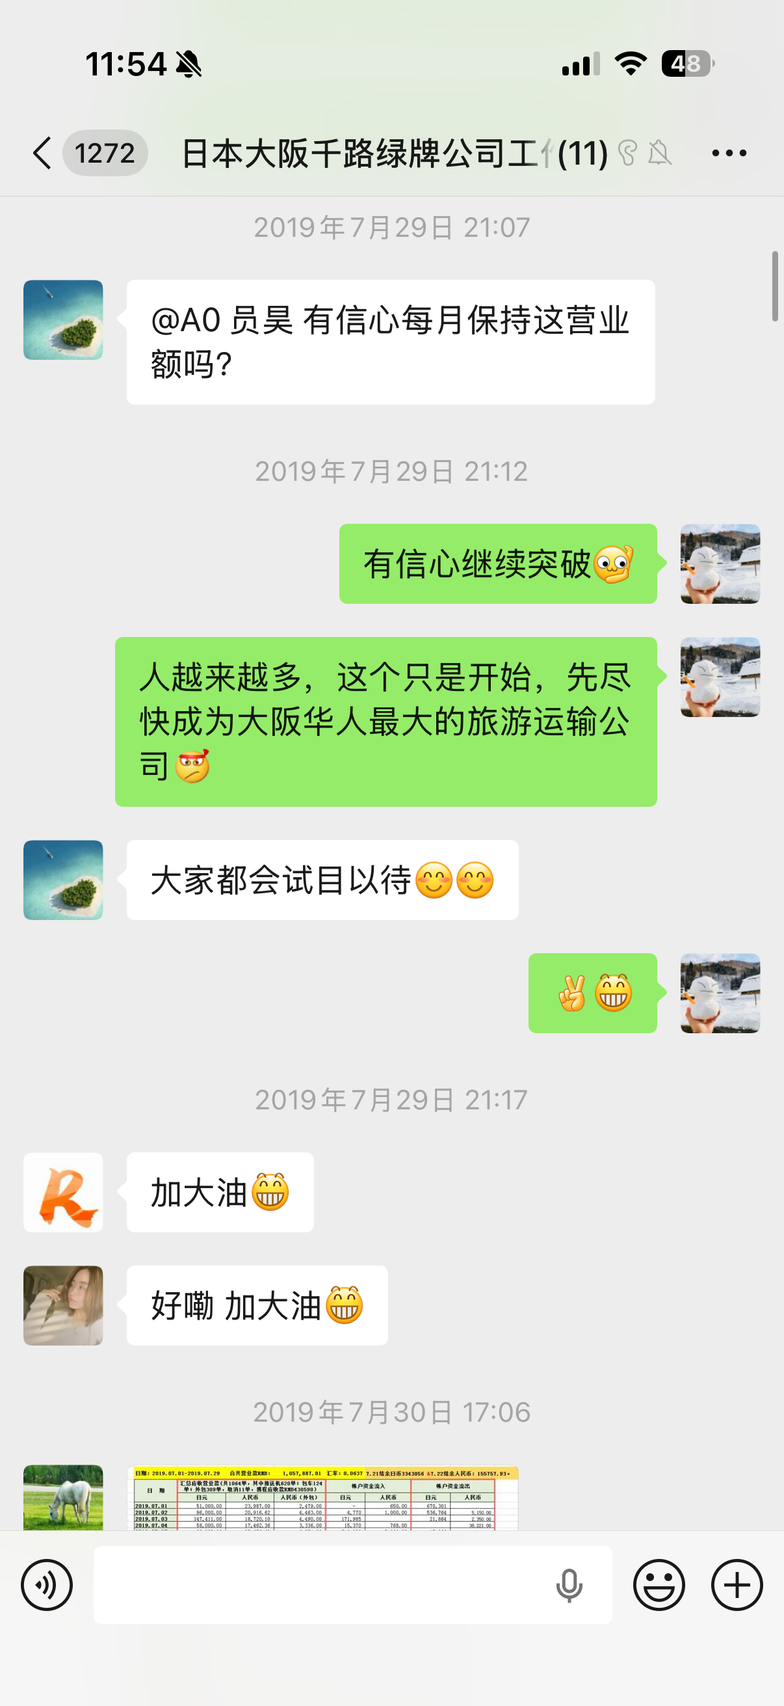
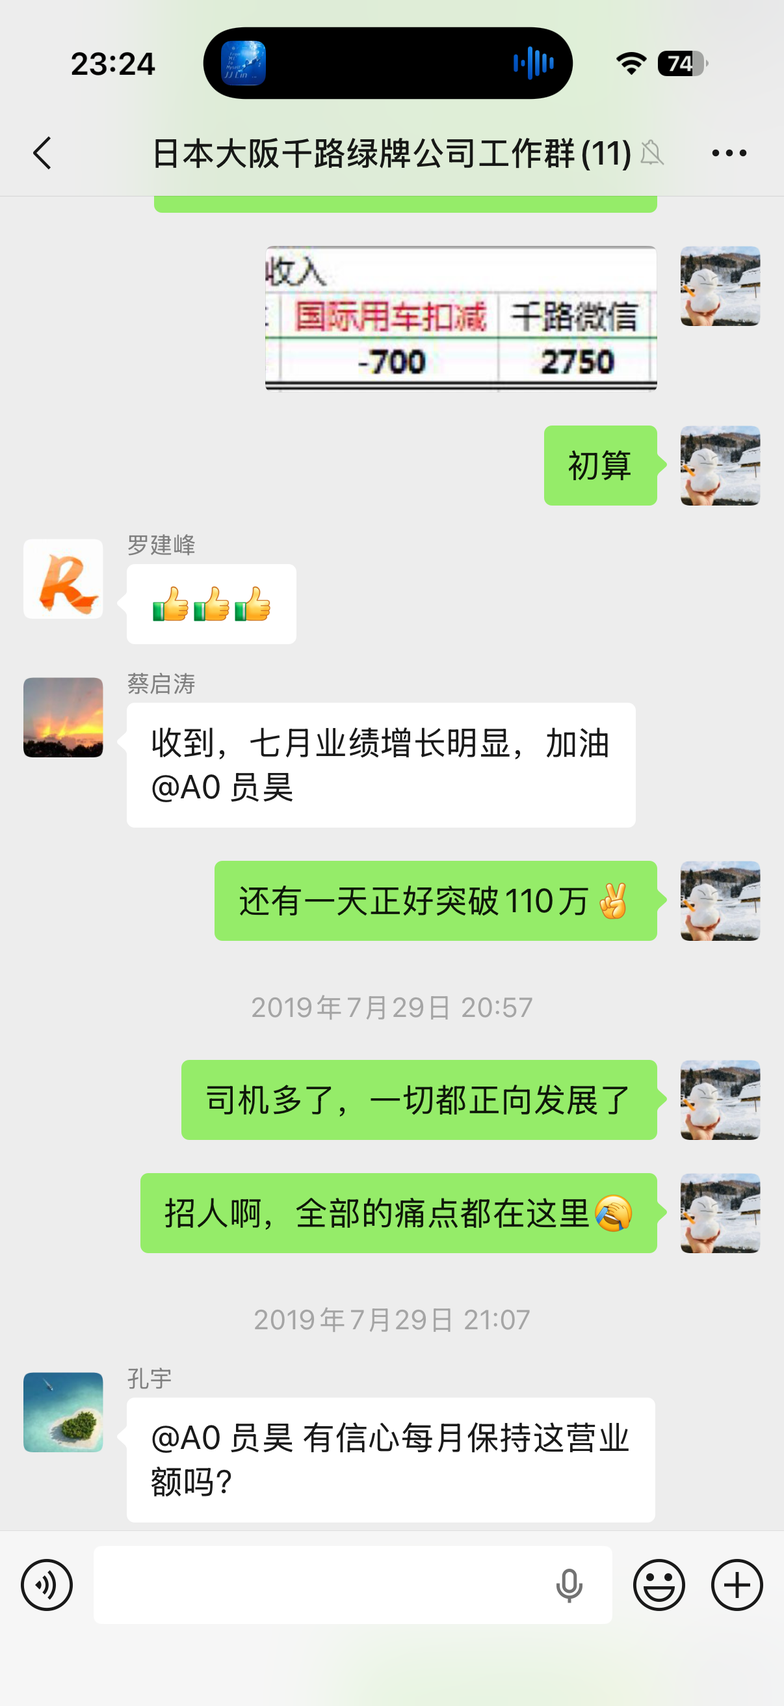
修正案件概述7处问题：年份、人名、截图内容、股东会细节

diff --git a/index.html b/index.html
@@ -301,8 +301,8 @@ body.locked>*:not(#password-gate){display:none!important}
 
       <p style="margin-bottom:6px;"><strong>犯罪闭环（30秒理解）：</strong></p>
       <table style="width:100%; border-collapse:collapse; margin-bottom:14px;">
-        <tr style="background:#ffcdd2;"><td style="padding:8px; border:1px solid #ddd; width:80px; font-weight:700;">第一步</td><td style="padding:8px; border:1px solid #ddd;"><strong>切断信息渠道</strong> &mdash; 凃云峰转走全部财务资料（11.9）&rarr; 通知供应商只能找凃云峰（11.19）&rarr; 邓桂燕停止汇报（11.28）&rarr; 股东会变更所有密码（12.2）&rarr; 免除员昊董事席位（12.12）&mdash;&mdash; 员昊在客观上已<strong>完全不可能</strong>获取任何公司信息</td></tr>
-        <tr style="background:#ffcdd2;"><td style="padding:8px; border:1px solid #ddd; font-weight:700;">第二步</td><td style="padding:8px; border:1px solid #ddd;"><strong>捏造事由诬告</strong> &mdash; 变更密码<strong>次日</strong>（12.3），罗建峰发律师函要求员昊"提供银行流水"。员昊已无法提供。随后以捏造的"未汇报"为由仲裁追诉</td></tr>
+        <tr style="background:#ffcdd2;"><td style="padding:8px; border:1px solid #ddd; width:80px; font-weight:700;">第一步</td><td style="padding:8px; border:1px solid #ddd;"><strong>切断信息渠道</strong> &mdash; 凃云峰转走全部财务资料（2019.11.9）&rarr; 通知供应商只能找凃云峰（2019.11.19）&rarr; 邓桂燕停止汇报（2019.11.28）&rarr; 股东会变更所有密码（2019.12.2）&rarr; 免除员昊董事席位（2019.12.12）&mdash;&mdash; 员昊在客观上已<strong>完全不可能</strong>获取任何公司信息</td></tr>
+        <tr style="background:#ffcdd2;"><td style="padding:8px; border:1px solid #ddd; font-weight:700;">第二步</td><td style="padding:8px; border:1px solid #ddd;"><strong>捏造事由诬告</strong> &mdash; 变更密码<strong>次日</strong>（2019.12.3），罗建峰发律师函要求员昊"提供银行流水"。员昊已无法提供。随后以捏造的"未汇报"为由仲裁追诉</td></tr>
         <tr style="background:#ffcdd2;"><td style="padding:8px; border:1px solid #ddd; font-weight:700;">第三步</td><td style="padding:8px; border:1px solid #ddd;"><strong>给自己免责</strong> &mdash; 蔡启泳在仲裁中<strong>放弃追诉凃云峰（法定代表人、合同约定的义务执行人）、吕伟麟、蔡启涛</strong>，仅追诉员昊等三名小股东。切断信息渠道的人全部被免责，受害人被追诉</td></tr>
       </table>
 
@@ -310,9 +310,9 @@ body.locked>*:not(#password-gate){display:none!important}
       <table style="width:100%; border-collapse:collapse; margin-bottom:14px;">
         <tr style="background:#e8eaf6;"><th style="padding:6px 8px; border:1px solid #ddd; width:30px;">#</th><th style="padding:6px 8px; border:1px solid #ddd;">证据</th><th style="padding:6px 8px; border:1px solid #ddd;">证明了什么</th></tr>
         <tr style="background:#fff3e0;"><td style="padding:6px 8px; border:1px solid #ddd; text-align:center; font-weight:700;">1</td><td style="padding:6px 8px; border:1px solid #ddd;"><strong style="color:#b71c1c;">2019年12月14日语音录音（名古屋，除凃云峰外全体股东在场）</strong>（<span class="evidence-tag">2019年12月14日谈话语音录音</span>）<br>蔡启涛、吕伟麟<strong>代替罗建峰和凃云峰</strong>向员昊提出326万元买断条件</td><td style="padding:6px 8px; border:1px solid #ddd;"><strong>一条录音同时证明四项关键事实：</strong><br>&bull; <strong>四人共谋</strong>：蔡/吕代替罗/凃谈判，四人构成统一阵营<br>&bull; <strong>非破产</strong>：应收款120多万+16台车约100万=220万资产<br>&bull; <strong>犯罪动机</strong>：买断被拒后转向虚假诉讼（"买不成就告"）<br>&bull; <strong>审计操控</strong>：员昊要求换审计师被拒，蔡启涛承诺6年未兑现</td></tr>
-        <tr><td style="padding:6px 8px; border:1px solid #ddd; text-align:center;">2</td><td style="padding:6px 8px; border:1px solid #ddd;"><strong>微信群记录</strong>（罗建峰在财务群2019年8月回复"收到，七月业绩增长明显"）</td><td style="padding:6px 8px; border:1px solid #ddd;">罗建峰在仲裁中声称"2019年4月后无法获知财务"——<strong>其本人微信发言直接推翻此陈述</strong></td></tr>
+        <tr><td style="padding:6px 8px; border:1px solid #ddd; text-align:center;">2</td><td style="padding:6px 8px; border:1px solid #ddd;"><strong>微信群记录</strong>（2019年7月29日，蔡启涛在群中回复"收到，七月业绩增长明显"，罗建峰以表情回应，孔宇主动询问营业额）</td><td style="padding:6px 8px; border:1px solid #ddd;">罗建峰在仲裁中声称"2019年4月后无法获知财务"——<strong>群聊记录证明被告发人一方全程参与财务监管，直接推翻此陈述</strong></td></tr>
         <tr><td style="padding:6px 8px; border:1px solid #ddd; text-align:center;">3</td><td style="padding:6px 8px; border:1px solid #ddd;"><strong>审计报告隐匿3年</strong>（2020年出具，2023年才在撤裁听证会提交）</td><td style="padding:6px 8px; border:1px solid #ddd;">被告发人已持有完整财务数据，却在仲裁中以"不了解财务"虚假陈述——<strong>主观故意的直接证据</strong></td></tr>
-        <tr><td style="padding:6px 8px; border:1px solid #ddd; text-align:center;">4</td><td style="padding:6px 8px; border:1px solid #ddd;"><strong>12月2日变更密码 &rarr; 12月3日律师函</strong>（24小时精确衔接）</td><td style="padding:6px 8px; border:1px solid #ddd;">先切断信息渠道，次日要求提供信息——<strong>时间配合排除偶然</strong></td></tr>
+        <tr><td style="padding:6px 8px; border:1px solid #ddd; text-align:center;">4</td><td style="padding:6px 8px; border:1px solid #ddd;"><strong>2019年12月2日变更密码 &rarr; 2019年12月3日律师函</strong>（24小时精确衔接）</td><td style="padding:6px 8px; border:1px solid #ddd;">先切断信息渠道，次日要求提供信息——<strong>时间配合排除偶然</strong></td></tr>
         <tr><td style="padding:6px 8px; border:1px solid #ddd; text-align:center;">5</td><td style="padding:6px 8px; border:1px solid #ddd;"><strong>吕伟麟双向代付</strong>（代罗建峰付借款1000万日元 + 代蔡启泳付律师费5000元）</td><td style="padding:6px 8px; border:1px solid #ddd;">原被告之间资金往来——<strong>恶意串通的典型客观指标</strong></td></tr>
         <tr><td style="padding:6px 8px; border:1px solid #ddd; text-align:center;">6</td><td style="padding:6px 8px; border:1px solid #ddd;"><strong>选择性放弃追诉凃云峰</strong>（法定代表人、7.35%股东、合同约定的义务执行人）及吕伟麟（41%最大股东）、蔡启涛（10%股东）</td><td style="padding:6px 8px; border:1px solid #ddd;">合同义务执行人被免责，无义务的小股东被追诉——<strong>违反正常债权人行为</strong></td></tr>
       </table>
@@ -324,11 +324,11 @@ body.locked>*:not(#password-gate){display:none!important}
       <p>&bull; 请求<strong>调取罗建峰、蔡启泳、吕伟麟的微信聊天记录</strong>（公安有权依法调取，可获取各被告发人之间的直接通谋证据）</p>
       <p>&bull; 请求<strong>冻结凃云峰、吕伟麟、蔡启涛在中国境内的房产及银行账户</strong>（凃云峰在中国拥有多处高档无贷款房产；吕伟麟系千路商事41%最大股东且代付能力极强（已代罗建峰支付1000万日元、代蔡启泳支付律师费）；蔡启涛拥有上千万元资产）</p>
       <p>&bull; 请求<strong>对蔡启泳进行讯问</strong>（作为仲裁申请人，直接实施了虚假诉讼行为）</p>
-      <p>&bull; 请求<strong>对谭永琴进行询问</strong>（邓桂燕的下属，负责千路商事日常财务统计工作，知情人——可证实财务汇报的实际执行情况）</p>
+      <p>&bull; 请求<strong>对谭咏琴进行询问</strong>（邓桂燕的下属，负责千路商事日常财务统计工作，知情人——可证实财务汇报的实际执行情况）</p>
       <p>&bull; 请求<strong>对邓桂燕进行讯问</strong>（被告发人，吕伟麟指派的财务总管，2019年11月12日突然停止汇报——系接到指令配合切断信息渠道的关键执行者，同时担任全部核心关联公司的财务负责人）</p>
       <p>&bull; 请求<strong>对王奥进行讯问</strong>（被告发人，仲裁代理律师，明知审计报告日文原件结论为"无法确认事实"，仍向法庭歪曲翻译为"发现挪用"）</p>
       <p>&bull; 请求<strong>对洪华全进行讯问</strong>（被告发人，独任仲裁员，篡改合同条款将"乙方"义务改为"四被申请人"个人义务，跳过前提条件裁决连带责任）</p>
-      <p>&bull; 请求<strong>对吴铭刚进行讯问</strong>（被告发人，幕后老板，通过佛山拓派电子科技有限公司与吕伟麟、邓桂燕直接关联，在千寻合同会社中代吕伟麟持有最大份额）</p>
+      <p>&bull; 请求<strong>对吴铭刚进行讯问</strong>（被告发人，幕后老板，通过佛山拓派电子科技有限公司与吕伟麟、邓桂燕直接关联，与罗建峰、凃云峰等人合开日本千寻合同会社并持有该公司最大份额股份）</p>
       <p>&bull; 请求<strong>中止执行</strong>（2023）赣0111执2290号案件，待刑事案件侦查终结</p>
 
       <p style="margin-top:14px; padding:12px 16px; background:#fff3e0; border:1px solid #e65100;"><strong style="color:#e65100;">&#9888; 为什么这是刑事案件而非民事纠纷？</strong><br>民事纠纷是"对合同理解不同"——本案是<strong>蓄意捏造与客观事实相反的虚假陈述</strong>：罗建峰在微信群里回复"收到，七月业绩增长明显"，却在仲裁中声称"2019年4月后无法获知财务"；被告发人已持有完整审计报告，却以"不了解财务"为由起诉并故意隐匿该报告3年；先转走全部财务资料、变更全部密码、解除员昊职务，再以"员昊不提供财务信息"为由起诉——<strong>先切断信息渠道再捏造事由诬告，这是"制造事实"，不是"利用事实"</strong>。本案告发的是被告发人向仲裁庭<strong>捏造事实、提交虚假陈述</strong>的犯罪行为，而非仲裁庭的法律适用问题。<strong style="color:#b71c1c;">独任仲裁员洪华全明知合同中约定了违约条款，在员昊和邱千依没有任何违反违约条款的情况下，直接跳过违约条款，强行认定连带责任，枉法裁决行为明确。</strong></p>
@@ -411,7 +411,7 @@ body.locked>*:not(#password-gate){display:none!important}
       <p>凃云峰（公司法定代表人）、吕伟麟（第一大股东41%）、蔡启涛（股东10%）三人与债权人罗建峰<strong>恶意串通</strong>，通过以下手段实施虚假诉讼：</p>
       <p><strong>1. 诱骗入股与签字</strong> &mdash; 以解决签证为由诱骗员昊、邱千依入股。<strong>罗建峰在入股时对员昊、邱千依而言完全陌生，系吕伟麟、蔡启涛单方面安排引入。</strong>根据第一次借款协议第二条第1项原文："丙方需按各自的股权比例筹集<strong>800万日元</strong>予乙方，以充实乙方的资金实力"——员昊、邱千依系公司的<strong>出资人（出借人）</strong>，而非罗建峰债权的担保人。第二次借款协议（2019年4月1日）鉴于条款明确载明"公司经营状况好转"（财务数据证实：月营收55.7万元、15辆运营车辆），罗建峰对此完全知情，却以"转让公司管理权（法定代表人身份）"为诱饵骗取员昊签字，至今已逾8年（截至2026年）未兑现承诺</p>
       <p><strong>2. 转移财务</strong> &mdash; 凃云峰以"公司审计"为名签署《业务指示书》，将全部公司资产移交给西畑诚亮（不动产公司）保管。<strong style="color:#b71c1c;">当日公认会计士长岛广明在场，此人即后来出具审计报告之人——证明凃、吕、蔡三人自始掌握全部财务数据</strong></p>
-      <p><strong>3. 架空排挤</strong> &mdash; 2019年10月公司月营收达110万元人民币。召开股东会时员昊到场却被排斥于议程之外，离场后秘密继续后半段会议；<strong>仅24小时后</strong>罗建峰即发律师函追索财务数据；随后强行解除受害人全部职务，切断信息来源</p>
+      <p><strong>3. 架空排挤</strong> &mdash; 2019年10月公司月营收达110万元人民币。凃云峰、吕伟麟、蔡启涛在2019年12月上旬连续召开两次股东会，将员昊和邱千依开除出公司董事会、解除职务、赶出公司；<strong>仅24小时后</strong>罗建峰即发律师函追索财务数据，彻底切断信息来源</p>
       <p><strong>4. 虚假诉讼</strong> &mdash; 将债权虚假转让给蔡启泳（蔡启涛之兄弟），选择性地仅向受害人提起仲裁，放弃对实际违约人凃云峰的追诉。<strong style="color:#b71c1c;">仲裁中隐匿审计报告，以虚假的"不了解财务状况"获取错误裁决——该报告直至2023年湛江中院撤裁听证时才曝光</strong></p>
       <p><strong>5. 侵吞资产</strong> &mdash; 变卖公司全部固定资产据为己有后失踪</p>
     </div>
@@ -440,23 +440,24 @@ body.locked>*:not(#password-gate){display:none!important}
           以下证据全部来自微信群<strong>"日本大阪千路绿牌公司工作群"（11人）</strong>。该群从2019年3月起至11月12日止，持续进行<strong>每日营业数据+每月完整财务报表</strong>的汇报。<strong style="color:#ffeb3b;">罗建峰本人在群中，全程可见所有汇报内容，且主动参与互动。</strong>
         </p>
 
-        <!-- 证据1：罗建峰主动参与 -->
+        <!-- 证据1：工作群全员参与财务监管（2019年7月29日） -->
         <div style="background:rgba(255,255,255,0.95); color:#333; padding:16px; border-radius:6px; margin-bottom:15px;">
-          <strong style="color:#c62828; font-size:1.15em; display:block; margin-bottom:12px;">&#9312; 罗建峰主动过问营业数据（2019年7月29日）</strong>
+          <strong style="color:#c62828; font-size:1.15em; display:block; margin-bottom:12px;">&#9312; 被告发人在工作群中全程参与财务监管（2019年7月29日）</strong>
           <div style="display:flex; gap:16px; flex-wrap:wrap; align-items:flex-start;">
             <div style="flex:0 0 280px;">
-              <img src="evidence/workgroup/luo-july29.png" alt="罗建峰2019年7月29日在工作群中主动询问营业额" style="width:100%; border:2px solid #c62828; border-radius:4px;">
+              <img src="evidence/workgroup/luo-july29.png" alt="2019年7月29日工作群聊天记录" style="width:100%; border:2px solid #c62828; border-radius:4px;">
             </div>
             <div style="flex:1; min-width:250px;">
               <p style="margin:0 0 10px;"><strong>群聊原文：</strong></p>
               <blockquote style="background:#ffebee; padding:12px; border-left:4px solid #c62828; margin:0 0 10px;">
-                <strong>罗建峰：</strong>"@A0 员昊 有信心每月保持这营业额吗？"<br>
-                <strong>员昊：</strong>"有信心继续突破🤟 人越来越多，这个只是开始，先尽快成为大阪华人最大的旅游运输公司"<br>
-                <strong>罗建峰：</strong>"加大油🤩"
+                <strong>罗建峰：</strong>😍😍🤩（查看营业数据后发送表情回应）<br>
+                <strong>蔡启涛：</strong>"收到，七月业绩增长明显，加油 @A0 员昊"<br>
+                <strong>员昊：</strong>"还有一天正好突破110万🤟"<br>
+                <strong>孔宇：</strong>"@A0 员昊 有信心每月保持这营业额吗？"
               </blockquote>
               <p style="margin:0; background:#fff3e0; padding:10px; border-radius:4px;">
-                <strong style="color:#c62828;">&#9888; 关键：</strong>罗建峰<strong>主动@员昊</strong>询问能否保持营业额。这证明他<strong>一直在看群里的营业数据</strong>，且对数据满意到鼓励团队。<br><br>
-                <strong>4个月后</strong>，这同一个人去仲裁庭声称"无从了解公司财务状况"、"他们不汇报"。
+                <strong style="color:#c62828;">&#9888; 关键：</strong>罗建峰在群中<strong>查看营业数据并以表情回应</strong>，蔡启涛主动确认"七月业绩增长明显"，孔宇@员昊询问营业额。这证明<strong>被告发人一方全程在看群里的营业数据</strong>，且对公司经营状况完全知情。<br><br>
+                <strong>4个月后</strong>，罗建峰去仲裁庭声称"无从了解公司财务状况"、"他们不汇报"。
               </p>
             </div>
           </div>
@@ -546,7 +547,7 @@ body.locked>*:not(#password-gate){display:none!important}
             </tr>
             <tr>
               <td style="padding:10px; border:1px solid #ddd; font-weight:bold;">7月29日</td>
-              <td style="padding:10px; border:1px solid #ddd;">罗建峰在群中@员昊："有信心每月保持这营业额吗？"</td>
+              <td style="padding:10px; border:1px solid #ddd;">罗建峰以表情回应营业数据，蔡启涛回复"收到，七月业绩增长明显"，孔宇@员昊询问营业额</td>
             </tr>
             <tr style="background:#e8f5e9;">
               <td style="padding:10px; border:1px solid #ddd; font-weight:bold;">8月-10月</td>
@@ -558,7 +559,7 @@ body.locked>*:not(#password-gate){display:none!important}
             </tr>
             <tr style="background:#ffcdd2;">
               <td style="padding:10px; border:1px solid #ddd; font-weight:bold; color:#c62828;">11月9日</td>
-              <td style="padding:10px; border:1px solid #ddd; color:#c62828;"><strong>涂云峰将公司全部资产转移给第三方西田诚亮</strong></td>
+              <td style="padding:10px; border:1px solid #ddd; color:#c62828;"><strong>凃云峰将公司全部资产转移给第三方西田诚亮</strong></td>
             </tr>
             <tr style="background:#ffcdd2;">
               <td style="padding:10px; border:1px solid #ddd; font-weight:bold; color:#c62828;">11月12日</td>
@@ -5317,7 +5318,7 @@ body.locked>*:not(#password-gate){display:none!important}
     <div class="evidence-block">
       <h4>一、邓桂燕的核心角色</h4>
       <p>邓桂燕是吕伟麟和蔡启涛最早安排担任千路商事株式会社<strong>中国方面会计</strong>的人员。吕伟麟和蔡启涛的说辞是：邓桂燕是他们中国公司的会计，可以"免费"帮助千路商事做财务管理，省去日本人工成本。</p>
-      <p>邓桂燕带领其手下<strong>谭永琴</strong>（谭咏琴）负责千路商事的日常财务统计工作，并建立了微信工作群。<strong>该微信群中包括罗建峰以及千路商事的全部六位股东</strong>，邓桂燕负责每月不定期在群内汇报财务状况，月底制作财务总表发到群里。</p>
+      <p>邓桂燕带领其手下<strong>谭咏琴</strong>（谭咏琴）负责千路商事的日常财务统计工作，并建立了微信工作群。<strong>该微信群中包括罗建峰以及千路商事的全部六位股东</strong>，邓桂燕负责每月不定期在群内汇报财务状况，月底制作财务总表发到群里。</p>
       <p style="color:#c62828;"><strong>这意味着：罗建峰在仲裁中所称"2019年4月以后无法获取千路商事的财务信息"，纯属虚假陈述。</strong>实际情况是，财务汇报方式从凃云峰私下向罗建峰汇报，变为邓桂燕在包含罗建峰的工作群中公开汇报——信息透明度不是降低了，而是<strong>提高了</strong>。</p>
     </div>
 
@@ -5418,7 +5419,7 @@ body.locked>*:not(#password-gate){display:none!important}
         <tr><td style="padding:6px; border:1px solid #ddd;">佛山拓派电子科技有限公司</td><td style="padding:6px; border:1px solid #ddd; text-align:center;"><strong>吴铭刚</strong>（<strong>吕伟麟</strong>=监事）</td><td style="padding:6px; border:1px solid #ddd; text-align:center;">开业</td></tr>
       </table>
       <p>此外，邓桂燕曾在<strong>佛山市顺德区宇翔企业管理有限公司</strong>（法定代表人：<strong>孔宇</strong>）担任监事。</p>
-      <p>邓桂燕的合作伙伴中：<strong>吕伟麟</strong>合作4次（最多）、<strong>孔宇</strong>合作5次、<strong>罗建峰</strong>合作1次。谭永琴（谭咏琴）同时在吕伟麟控股的<strong>潮代企业管理</strong>公司任职。</p>
+      <p>邓桂燕的合作伙伴中：<strong>吕伟麟</strong>合作4次（最多）、<strong>孔宇</strong>合作5次、<strong>罗建峰</strong>合作1次。谭咏琴（谭咏琴）同时在吕伟麟控股的<strong>潮代企业管理</strong>公司任职。</p>
       <p><em>数据来源：爱企查 &mdash; <a href="evidence/business-network/aiqicha-dengguiyan.pdf" target="_blank">爱企查报告-邓桂燕</a>、<a href="evidence/business-network/aiqicha-lvweilin.pdf" target="_blank">爱企查报告-吕伟麟</a></em></p>
     </div>
 
@@ -5655,11 +5656,11 @@ body.locked>*:not(#password-gate){display:none!important}
       <p>&bull; 请求<strong>调取罗建峰、蔡启泳、吕伟麟的微信聊天记录</strong>（公安有权依法调取，可获取各被告发人之间的直接通谋证据）</p>
       <p>&bull; 请求<strong>冻结凃云峰、吕伟麟、蔡启涛在中国境内的房产及银行账户</strong>（防止转移财产）</p>
       <p>&bull; 请求<strong>对蔡启泳进行讯问</strong>（仲裁申请人，直接实施虚假诉讼行为）</p>
-      <p>&bull; 请求<strong>对谭永琴进行询问</strong>（邓桂燕的下属，负责千路商事日常财务统计工作，可证实财务汇报的实际执行情况）</p>
+      <p>&bull; 请求<strong>对谭咏琴进行询问</strong>（邓桂燕的下属，负责千路商事日常财务统计工作，可证实财务汇报的实际执行情况）</p>
       <p>&bull; 请求<strong>对邓桂燕进行讯问</strong>（被告发人，吕伟麟指派的财务总管，2019年11月12日突然停止汇报的执行者，同时担任全部核心关联公司的财务负责人）</p>
       <p>&bull; 请求<strong>对王奥进行讯问</strong>（被告发人，仲裁代理律师，明知审计报告日文原件结论为"无法确认事实"，仍向法庭歪曲翻译为"发现挪用"）</p>
       <p>&bull; 请求<strong>对洪华全进行讯问</strong>（被告发人，独任仲裁员，篡改合同条款将"乙方"义务改为"四被申请人"个人义务，跳过前提条件裁决连带责任）</p>
-      <p>&bull; 请求<strong>对吴铭刚进行讯问</strong>（被告发人，幕后老板，通过佛山拓派电子科技有限公司与吕伟麟、邓桂燕直接关联，在千寻合同会社中代吕伟麟持有最大份额）</p>
+      <p>&bull; 请求<strong>对吴铭刚进行讯问</strong>（被告发人，幕后老板，通过佛山拓派电子科技有限公司与吕伟麟、邓桂燕直接关联，与罗建峰、凃云峰等人合开日本千寻合同会社并持有该公司最大份额股份）</p>
       <p>&bull; 请求<strong>中止执行</strong>（2023）赣0111执2290号案件，待刑事案件侦查终结</p>
       <p style="margin-top:10px;"><strong style="color:#b71c1c;">特别说明：</strong>本告发仅针对<strong>虚假诉讼罪</strong>。凃云峰等人变卖公司资产、侵吞疫情补助金等行为虽涉嫌其他犯罪，但鉴于千路商事株式会社注册于日本大阪，相关资产在日本境内，取证存在跨境司法协助困难。告发人将在日本另行追究。本案聚焦于在中国境内实施的虚假诉讼犯罪行为，证据充分、管辖明确、可操作性强。</p>
 
